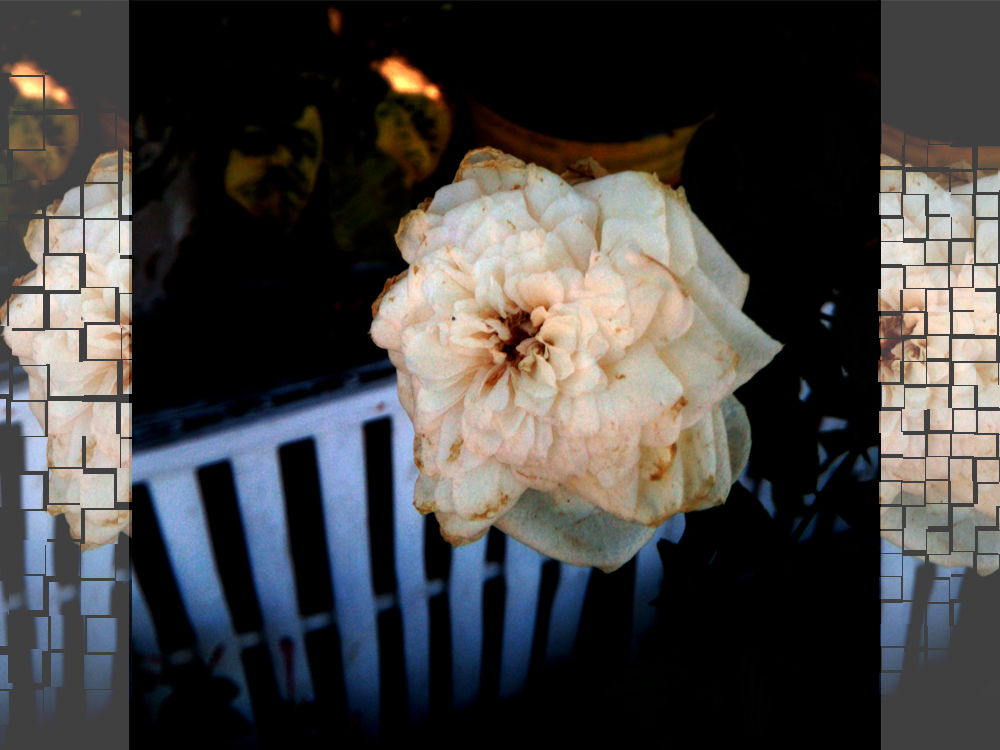
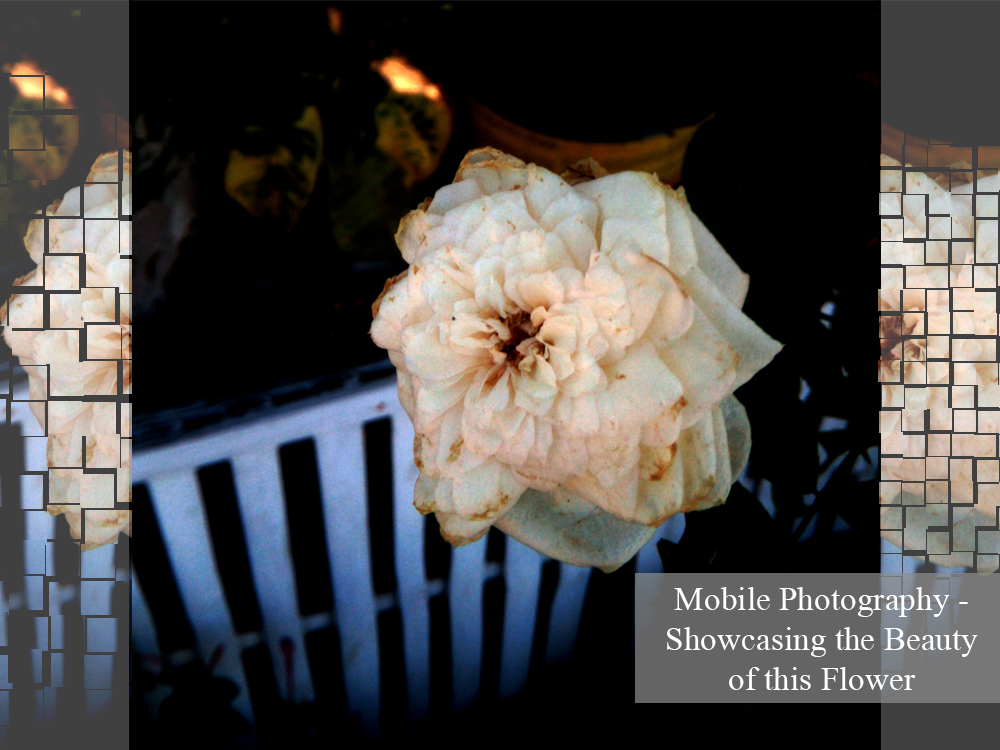
images added text

Changed region(s): [[0.62, 0.7667, 1.0, 0.9507]]

diff --git a/styles.css b/styles.css
@@ -228,13 +228,13 @@ ud li{
     color: white;
 }
 
-.sleeping {height: 90%; background-color: #6e5a5a; margin-top: 60.7%;} 
-.Java {height: 65%; background-color: lightgray; margin-top: 214%;} 
-.Html {height: 45%; background-color: slategray;  margin-top: 338%;} 
-.Photoshop {height: 50%; background-color: darkgrey; margin-top: 307%}
-.Procastination {height: 80%; background-color: dimgray; margin-top: 122.1%} 
-.CP {height: 10%; background-color: #a2a2a2; margin-top: 552.2%}
-.ot {height: 70%; background-color: #a2a2a2; margin-top: 183.5%}
+.sleeping {height: 90%; background-color: #6e5a5a; margin-top: 29px;} 
+.Java {height: 65%; background-color: lightgray; margin-top: 101px;} 
+.Html {height: 45%; background-color: slategray;  margin-top: 159px;} 
+.Photoshop {height: 50%; background-color: darkgrey; margin-top: 144px}
+.Procastination {height: 80%; background-color: dimgray; margin-top: 58px} 
+.CP {height: 10%; background-color: #a2a2a2; margin-top: 259.4px}
+.ot {height: 70%; background-color: #a2a2a2; margin-top: 87px}
 
 .bout{
     margin-left:9.5%;
@@ -378,4 +378,8 @@ margin-left: 41%;
 .list{
     padding-left: 5%;
     padding-right: 12%;
+}
+
+h5{
+    position: absolute;
 }
